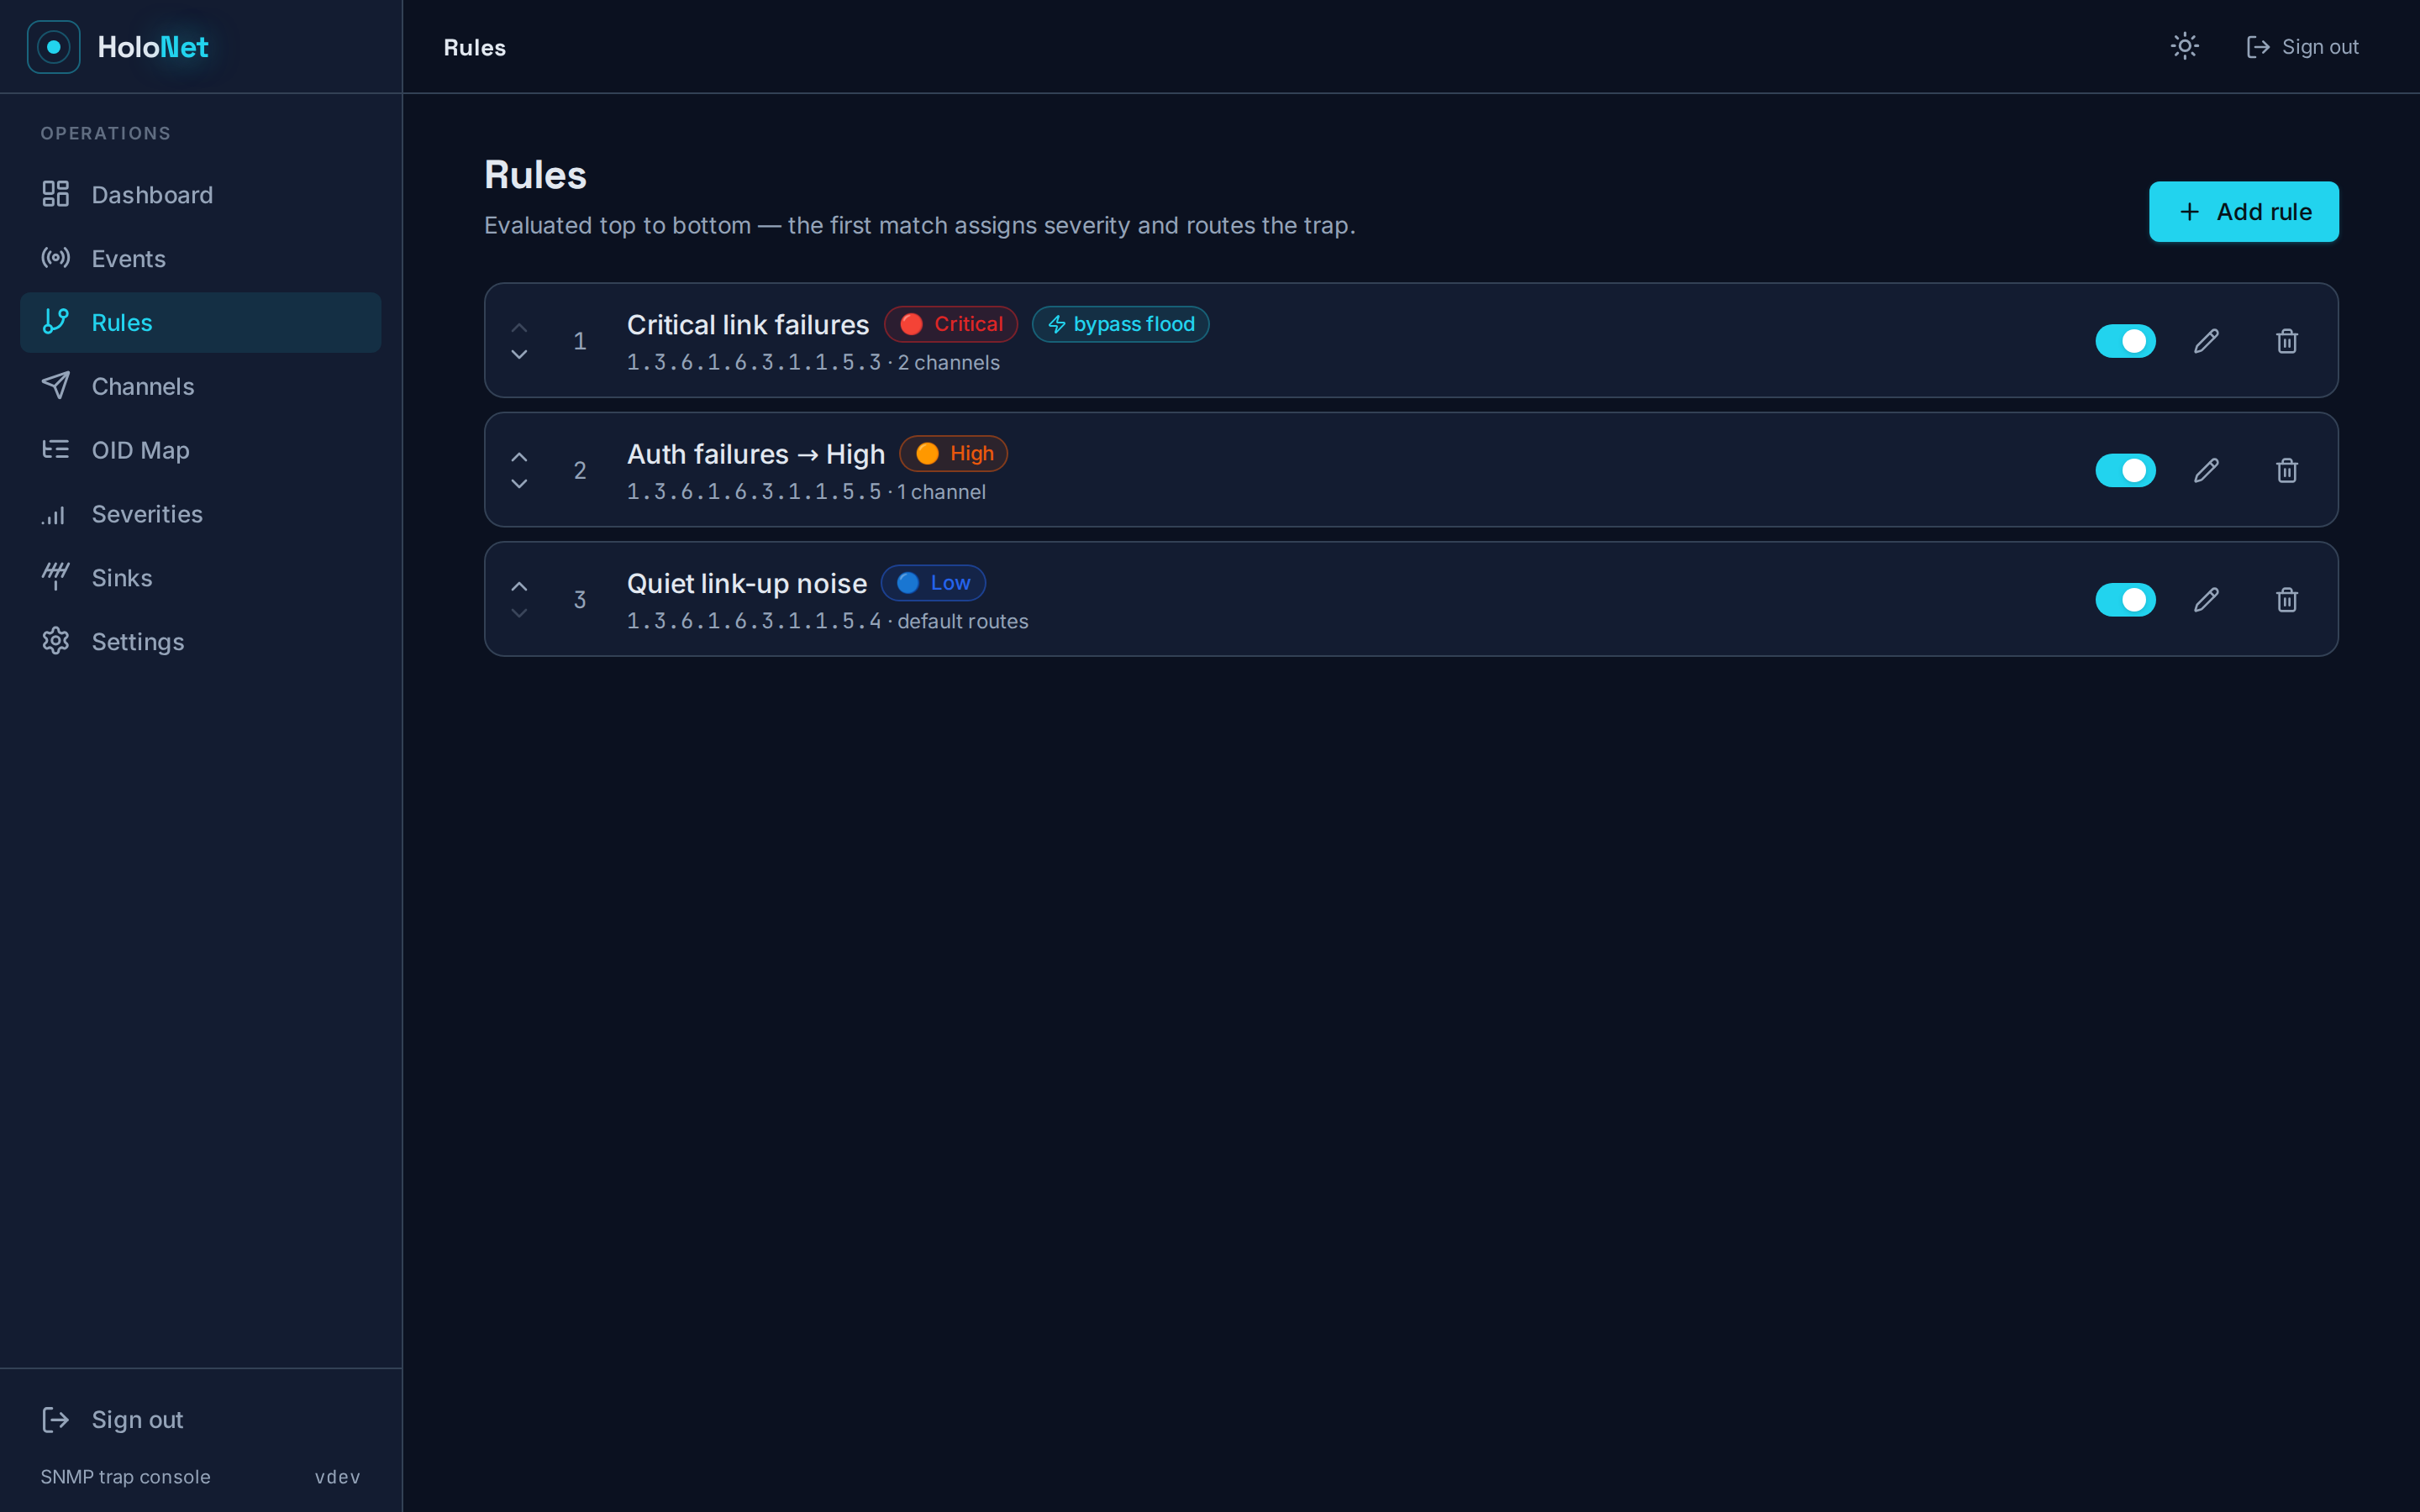
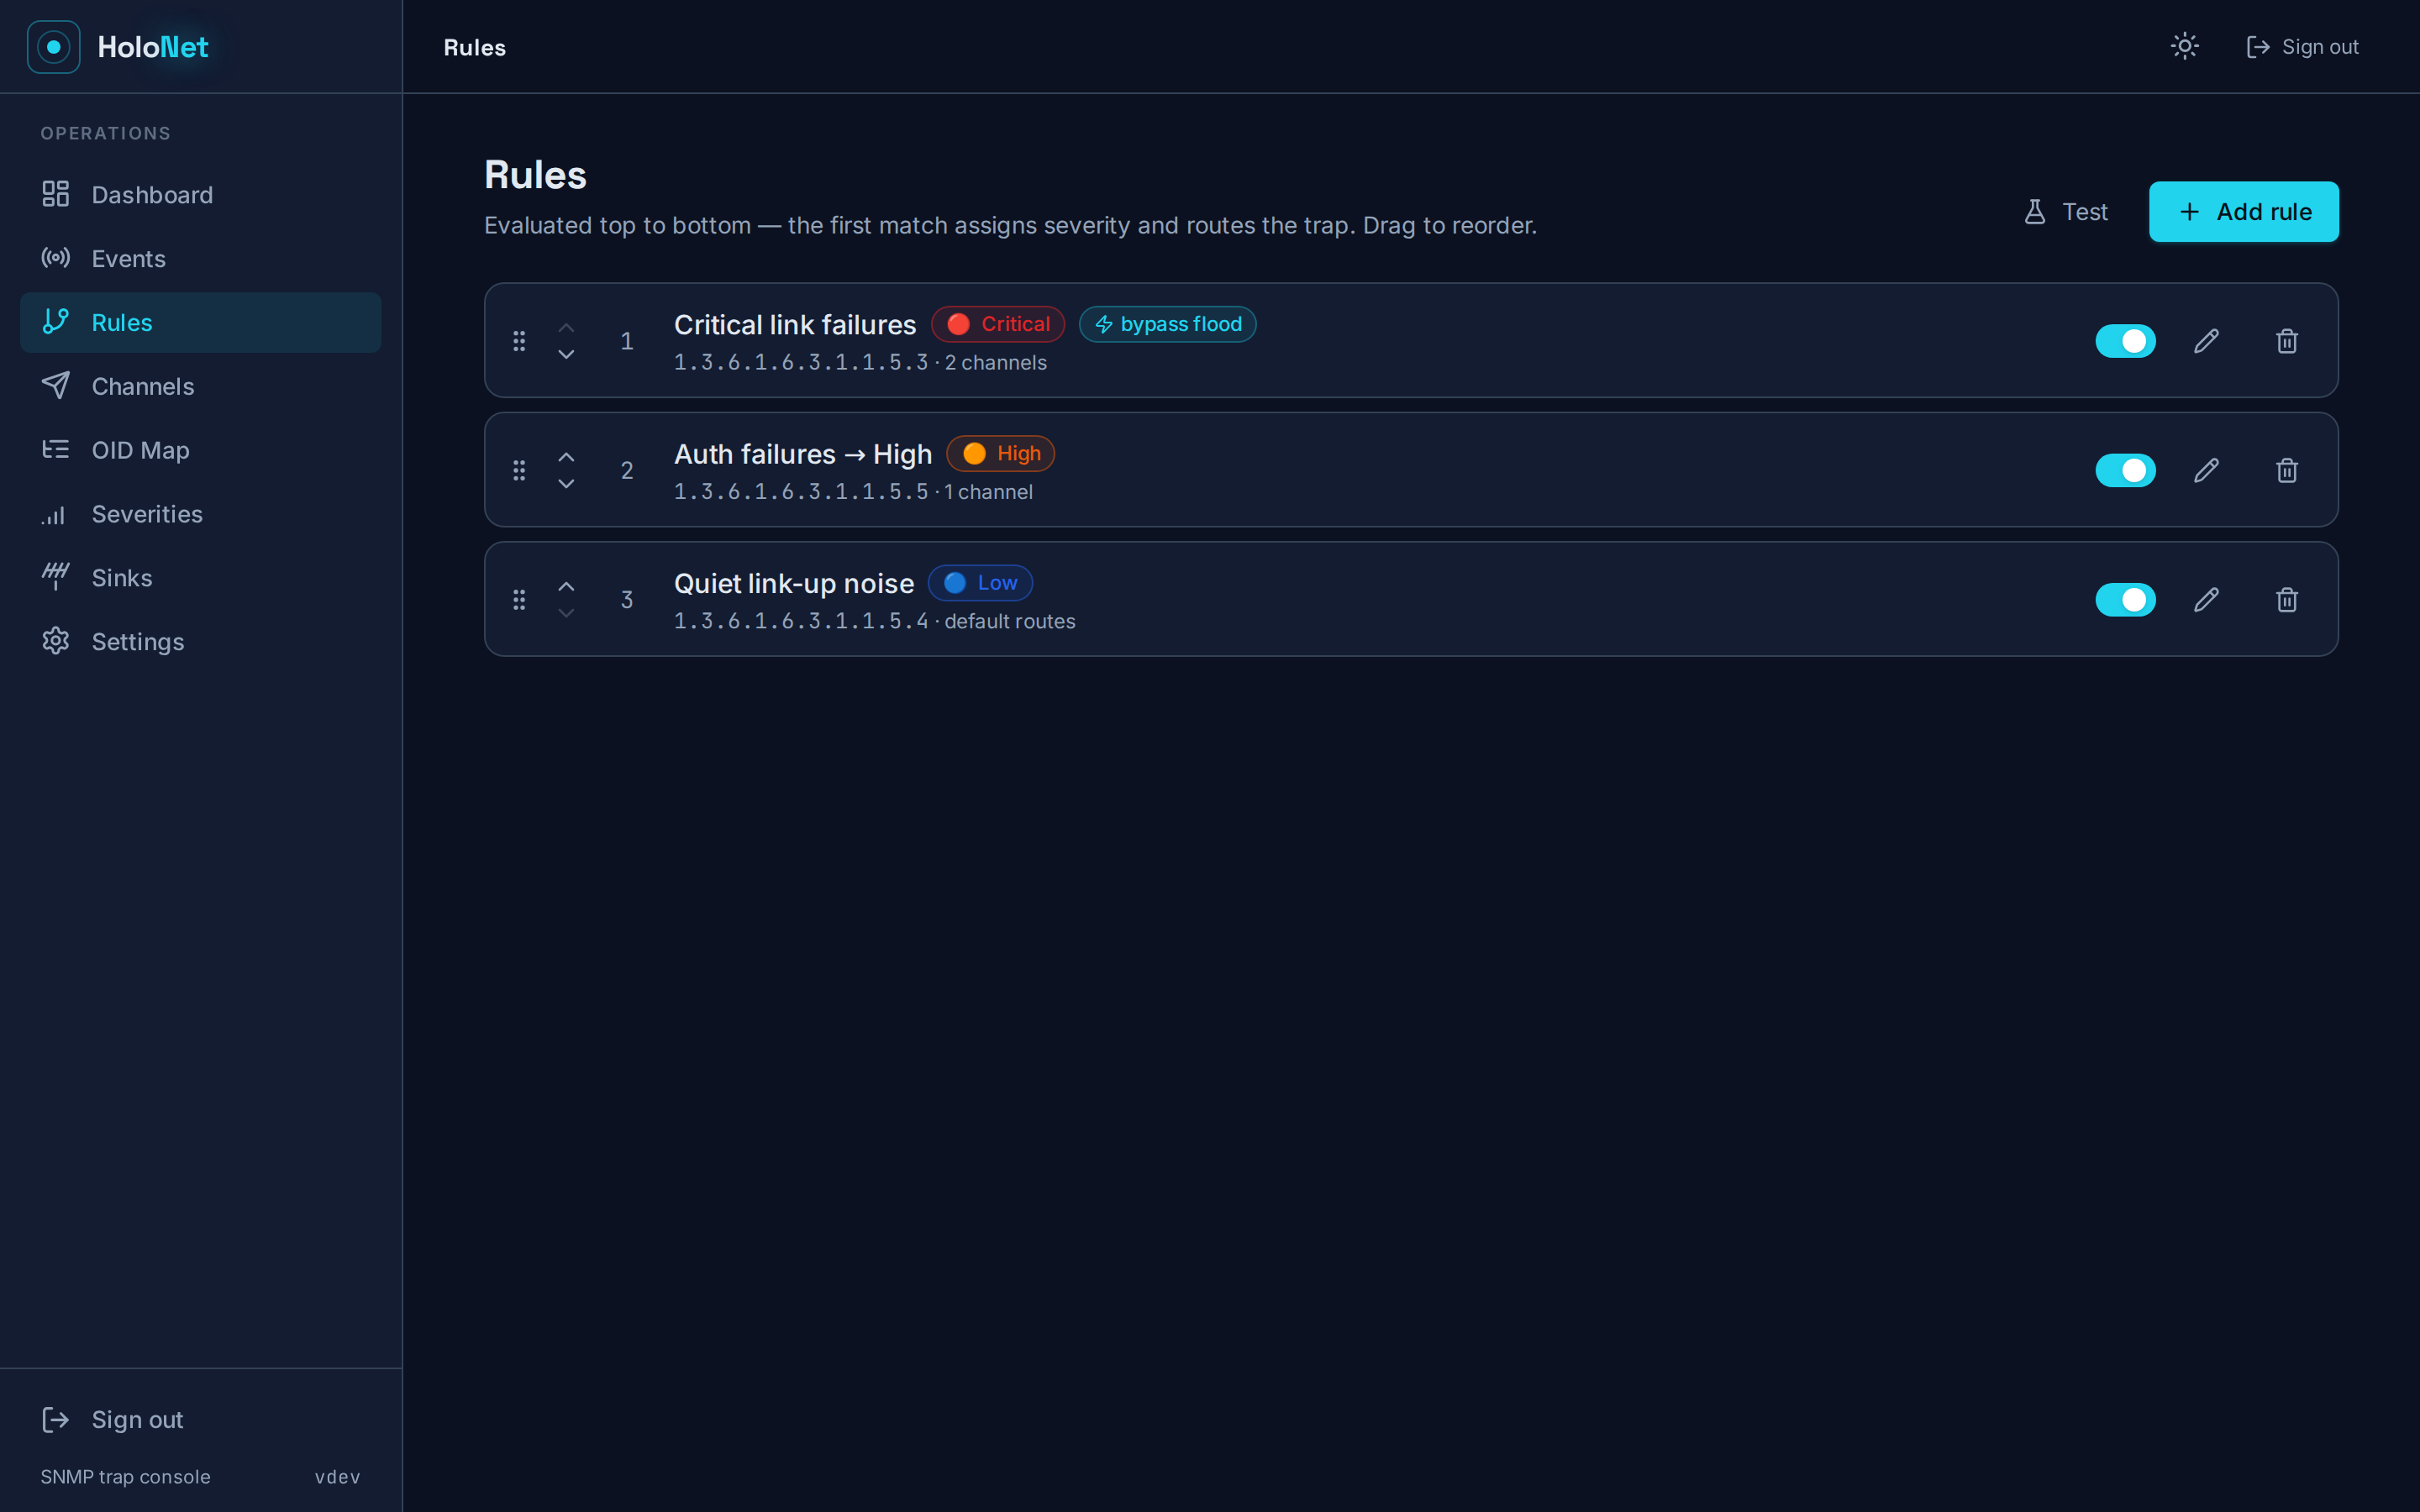
Refresh Rules screenshot and document new console + CLI features

diff --git a/README.md b/README.md
@@ -32,9 +32,10 @@ Single Go binary, embedded React console, pure-Go SQLite, `FROM scratch` image.
   credential is AES-256-GCM encrypted with a boot-time master key. Nothing
   sensitive is ever returned by the API or written in plaintext.
 - **Modern console** — responsive React/Vite SPA embedded in the binary, with a
-  sortable Events tab, drag-free rule reordering, live refresh, dark/light, and
-  a first-run setup wizard. Auth can be disabled when fronted by Cloudflare
-  Access.
+  sortable Events tab, drag-to-reorder rules with an inline **Test** (dry-run a
+  sample event against the rules), one-click **map** for unmapped OIDs straight
+  from the Events drawer, live refresh, dark/light, and a first-run setup wizard.
+  Auth can be disabled when fronted by Cloudflare Access.
 - **Prometheus metrics** at `/metrics`, **OpenAPI** at `/api/docs`.
 
 ---
@@ -50,7 +51,15 @@ Click any row for the decoded varbinds, per-channel dispatch status, and a
 ![Event detail](assets/screenshots/event-detail.png)
 
 ### Rules — ordered, first-match classification and routing
+Drag to reorder; **Test** dry-runs a sample event so you can see which rule wins
+and where it routes before saving.
+
 ![Rules](assets/screenshots/rules.png)
+![Test a rule](assets/screenshots/rule-test.png)
+
+Unmapped OIDs can be named on the spot from the Events drawer:
+
+![Map an OID](assets/screenshots/oid-quickmap.png)
 
 ### Channels — Shoutrrr / WhatsApp / webhook, with a real Send test
 ![Channels](assets/screenshots/channels.png)
@@ -150,7 +159,27 @@ flood strategy, bind address) lives in SQLite and is managed from the UI/API.
 | `--http-addr` | `HOLONET_HTTP_ADDR` | `:8080` | Web/API listen address |
 | `--secure-cookies` | `HOLONET_SECURE_COOKIES` | `false` | Set the `Secure` flag on session cookies (enable behind TLS) |
 | `--log-level` | `HOLONET_LOG_LEVEL` | `info` | `debug` / `info` / `warning` / `error` |
+| `--service <action>` | | | Manage the OS service: `install` / `uninstall` / `start` / `stop` / `restart` |
+| `--reset-password` | | | Interactively reset the admin password, then exit |
 | `--version` | | | Print version and exit |
+
+### Running as a service
+
+`--service install` registers HoloNet with the OS service manager (systemd,
+launchd, Windows services, …) using the flags you pass alongside it:
+
+```sh
+sudo HOLONET_MASTER_KEY="$(openssl rand -base64 32)" \
+  holonet --service install --db-path /var/lib/holonet/holonet.db --master-key "$HOLONET_MASTER_KEY"
+sudo holonet --service start
+```
+
+The generated unit bakes in the flags so the service starts with the same
+configuration. The master key is written into the unit's `ExecStart` when passed
+as a flag; to keep it out of the unit file, install without `--master-key` and
+put `HOLONET_MASTER_KEY` in the service environment (e.g. systemd's
+`/etc/sysconfig/holonet`). Forgot the admin password? `holonet --reset-password`
+prompts for a new one (needs a TTY).
 
 Precedence: `ENV` → `--flag` → built-in default. The SNMP **bind address** is
 stored in SQLite (default `0.0.0.0:1162`) and edited from **Sinks**. Binding a